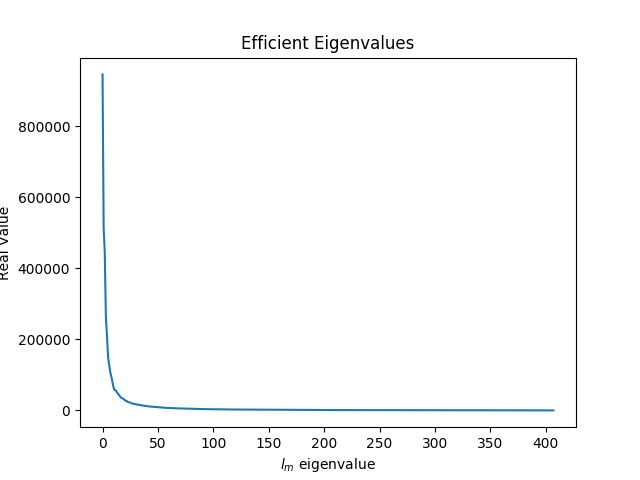
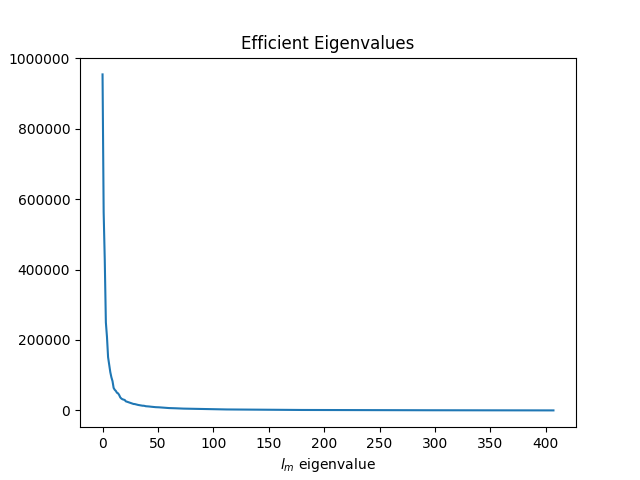
[Pre-processing] Corrected

diff --git a/Coursework 1/q1.py b/Coursework 1/q1.py
@@ -1,6 +1,7 @@
 import numpy as np
 import matplotlib.pyplot as plt
 import time
+import tqdm
 
 from pre_process import load_mat, remove_mean, separate_data, compute_eigenvalues_eigenvectors
 
@@ -9,6 +10,21 @@ def sort_eigenvalues_eigenvectors(eigenvalues, eigenvectors):
     eigenvalues = eigenvalues[p][::-1]
     eigenvectors = eigenvectors[p][::-1]
     return eigenvalues, eigenvectors
+
+def non_zero(eigenvalues,lim=0.001):
+    count = 0
+    print(eigenvalues.shape)
+    for i in eigenvalues:
+        if i<lim:
+            count+=1
+    return count
+
+def compare(a1, a2, lim=0.001):
+    N = len(a1) if len(a1) < len(a2) else a2
+    for i in range(N):
+        if np.abs(a1[i]-a2[i])>lim:
+            return False
+    return True
 
 def main():
     # Load the data from the matrix
@@ -31,7 +47,6 @@ def main():
 
     A = dataset[0][0]
     D, N = A.shape
-
     start = time.time()
     S_naive = 1/N * np.dot(A, A.T)
     end = time.time()
@@ -41,27 +56,49 @@ def main():
     S_efficient = 1/N * np.dot(A.T, A)
     end = time.time()
     print("Calculated S efficiently, took: {} s".format(end-start))
+    print(A.shape)
+    start = time.time()
+    l_naive,u_naive = compute_eigenvalues_eigenvectors(S_naive)
+    end = time.time()
+    print("Calculated eigenvectors, eigenvalues efficiently, took: {} s".format(end-start))
 
     start = time.time()
-    u_naive,l_naive = compute_eigenvalues_eigenvectors(S_naive)
+    l_efficient,u_efficient = compute_eigenvalues_eigenvectors(S_efficient)
     end = time.time()
     print("Calculated eigenvectors, eigenvalues inefficiently, took: {} s".format(end-start))
 
-    start = time.time()
-    u_efficient,l_efficient = compute_eigenvalues_eigenvectors(S_efficient)
-    end = time.time()
-    print("Calculated eigenvectors, eigenvalues inefficiently, took: {} s".format(end-start))
-
-    u_naive,l_naive = sort_eigenvalues_eigenvectors(u_naive, l_naive)
-    u_efficient, l_efficient = sort_eigenvalues_eigenvectors(u_efficient, l_efficient)
+    l_naive,u_naive = sort_eigenvalues_eigenvectors(l_naive, u_naive)
+    l_efficient, u_efficient = sort_eigenvalues_eigenvectors(l_efficient, u_efficient)
     l_naive = np.real(l_naive)
     l_efficient = np.real(l_efficient)
+    print("Non-zero eigenvalues inefficiently {}".format(non_zero(l_naive)))
+    print("Non-zero eigenvalues efficiently {}".format(non_zero(l_efficient)))
+
+    print("Are eigenvalues for both the same? {}".format(compare(l_efficient, l_naive)))
+
+    l_naive_sum = np.sum(l_naive)
+    k = [0] * N
+
+    for i in range(N):
+        for j in range(i):
+            k[i]+=l_naive[j]
+        k[i]/=l_naive_sum
+    k = np.array(k)
+    print("Relative accurracy for M=10: {}, M=50: {}, M = 100: {}, M=200: {}".format(k[10], k[50], k[100], k[200]))
+
+    plt.figure()
+    plt.title('Relative Reconstruction Error')
+    plt.xlabel('$l_{m}$ eigenvalue sum')
+    plt.ylabel('Accuracy')
+    plt.plot(k)
+    plt.savefig('results/q1/relative_accuracy.png',
+                format='png', transparent=True)
 
     plt.figure()
     plt.title('Efficient Eigenvalues')
     plt.xlabel('$l_{m}$ eigenvalue')
     plt.ylabel('Real Value')
-    plt.plot(u_efficient)
+    plt.plot(l_efficient)
     plt.savefig('results/q1/eigenvalues_efficient.png',
                 format='png', transparent=True)
 
@@ -69,7 +106,7 @@ def main():
     plt.title('Naive Eigenvalues')
     plt.xlabel('$l_{m}$ eigenvalue')
     plt.ylabel('Real Value')
-    plt.plot(u_naive)
+    plt.plot(l_naive)
     plt.savefig('results/q1/eigenvalues_naive.png',
                 format='png', transparent=True)
 
@@ -77,8 +114,8 @@ def main():
     plt.title('Combined Efficient and Naive Eigenvalues')
     plt.xlabel('$l_{m}$ eigenvalue')
     plt.ylabel('Real Value')
-    plt.plot(u_naive, label="Naive implementation")
-    plt.plot(u_efficient, label="Efficient implementation")
+    plt.plot(l_naive, label="Naive implementation")
+    plt.plot(l_efficient, label="Efficient implementation")
     plt.legend()
     plt.savefig('results/q1/eigenvalues_efficient_naive.png',
                 format='png', transparent=True)

diff --git a/Coursework 1/pre_process.py b/Coursework 1/pre_process.py
@@ -176,12 +176,6 @@ def preprocess():
     # Remove the same mean from the test dataset
     dataset[1][0] = remove_mean(dataset[1][0], mean)
 
-    # Display the mean face for verification
-    mean = mean.reshape((46,56))
-    mean = np.rot90(mean,3)
-    plt.imshow(mean, cmap="gray")
-    plt.show()
-
     # Prepare the containers
     types = ["training", "test"]
     S = []
@@ -196,13 +190,15 @@ def preprocess():
         if COMPUTE_DIRECTLY:
             D,N = face_matrix.shape
             cov = (1/N) * np.dot(face_matrix.T, face_matrix)
-            print(cov.shape)
         else:
             # Compute the covariance matrix
             cov = compute_covariance(face_matrix)
 
         # Compute eigenvalues and eigenvectors
         eigenvalues, eigenvectors = compute_eigenvalues_eigenvectors(cov)
+
+        if COMPUTE_DIRECTLY:
+            eigenvalues = np.dot(face_matrix, eigenvectors)
 
         # Append to the container
         Eigenvectors.append(eigenvectors)
